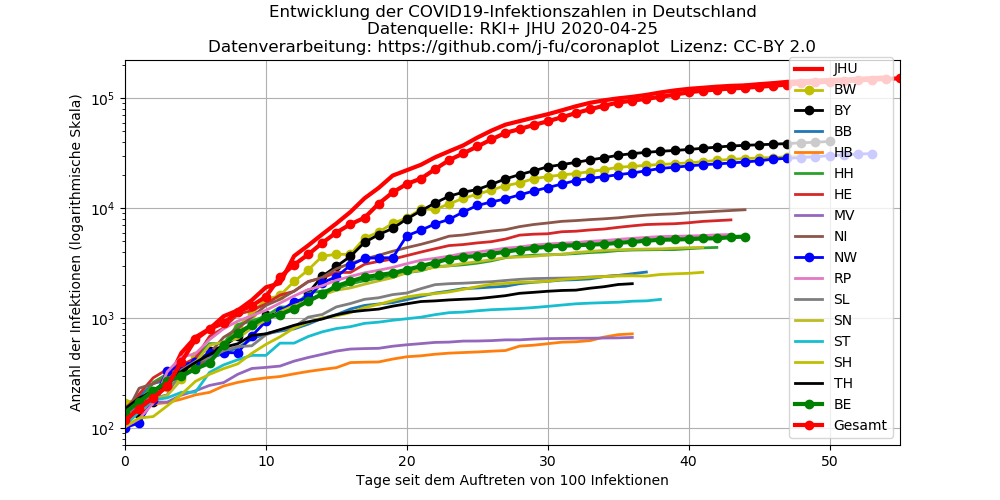
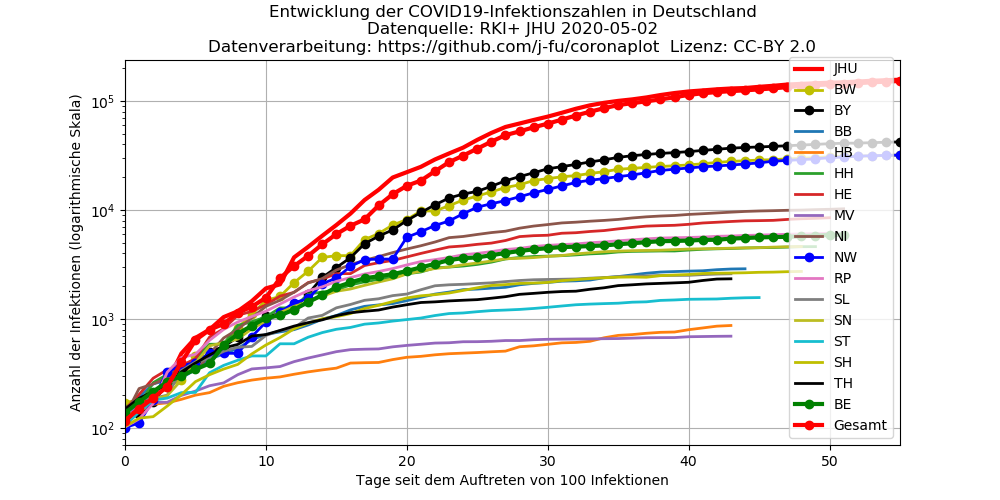
data update

Changed region(s): [[0.093, 0.15, 0.899, 0.81], [0.62, 0.03, 0.651, 0.09], [0.093, 0.39, 0.124, 0.45]]

diff --git a/docs/de-plots.md b/docs/de-plots.md
@@ -1,5 +1,5 @@
 ---
-title: Entwicklung der bestätigten Infektionszahlen mit SARS-CoV-2 in Deutschland (25.4.2020)
+title: Entwicklung der bestätigten Infektionszahlen mit SARS-CoV-2 in Deutschland (2.5.2020)
 ---
 
 Hier findet sich dieselbe Darstellung für Deutschland auf der Basis der Daten des RKI,

diff --git a/docs/index.md b/docs/index.md
@@ -1,5 +1,5 @@
 ---
-title: Entwicklung der bestätigten Infektionszahlen mit SARS-CoV-2 (25.4.2020)
+title: Entwicklung der bestätigten Infektionszahlen mit SARS-CoV-2 (2.5.2020)
 ---
 
 - [This page in English](index.en.md)

diff --git a/docs/index.en.md b/docs/index.en.md
@@ -1,5 +1,5 @@
 ---
-title: Evolution of confirmed SARS-CoV-2 infection numbers  (April 25, 2020)
+title: Evolution of confirmed SARS-CoV-2 infection numbers  (May 2, 2020)
 ---
 
 - [Diese Seite auf Deutsch](index.md)
